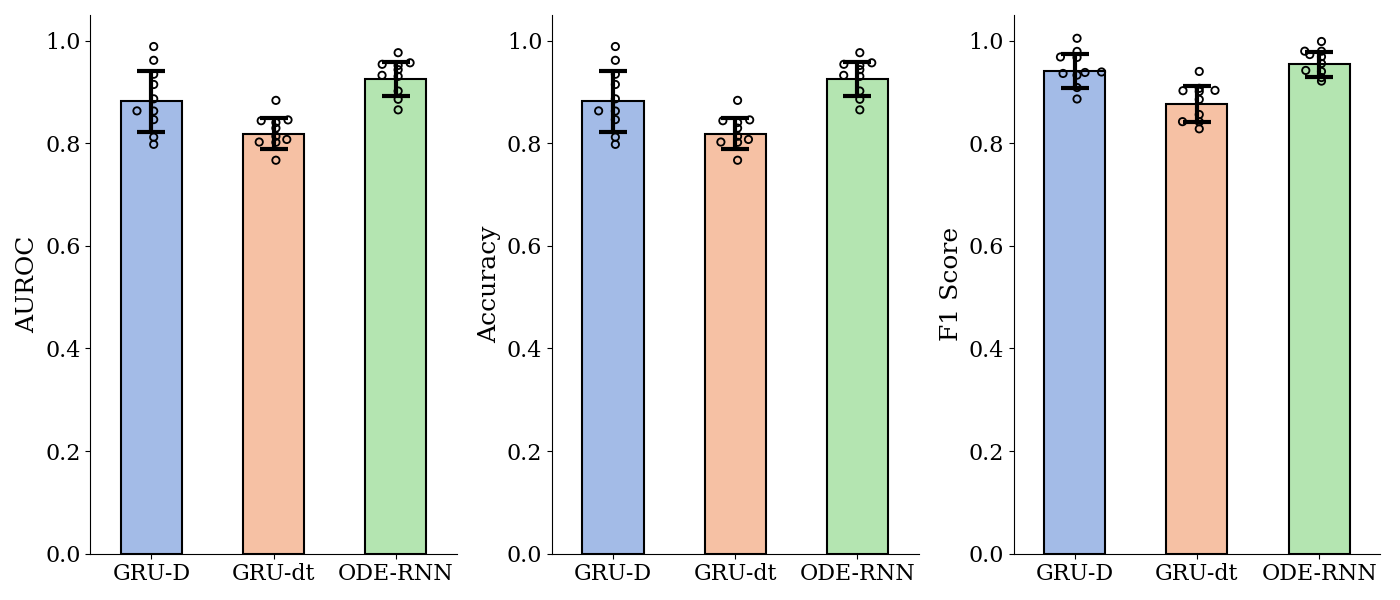
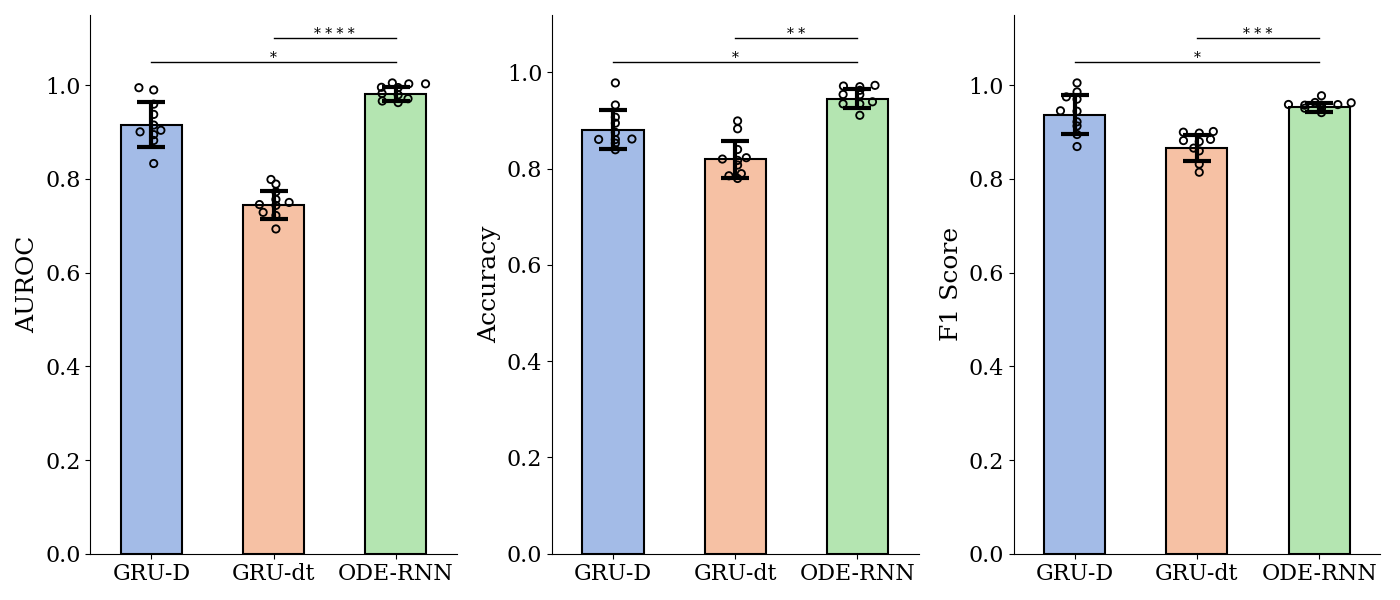
add functionality to plot asterisks for p-values

diff --git a/src/barplot.py b/src/barplot.py
@@ -9,18 +9,36 @@ from matplotlib import pyplot as plt
 def sbplot(ax: plt.Axes,
            method_list: List[str],
            data_dict: Dict[str, np.array],
+           pvals_dict: Dict[str, float] = None,
            show_individual_points: bool = True,
            individal_point_size: float = 10,
-           labelsize: int = 16) -> plt.Axes:
+           labelsize: int = 16,
+           y_buffer_ratio: int = 0.05,
+           ymin: float = None,
+           ymax: float = None) -> plt.Axes:
     '''
     Statistical Bar Plot.
     Blot the bars and display the significance levels.
+
+    Arguments
+    ---------
+    - `method_list`:
+        A list of method strings, each corresponding to a bar in the plot.
+    - `data_dict`:
+        A dict, with each key being a method string and the value being a 1D numpy array.
+    - `pvals_dict`:
+        A dict with the following format:
+        {'$method1 vs $method2': $p-value, ...}
+        The key shall use ' vs ' to connect two method strings,
+        both of which mentioned in `method_list`.
     '''
 
     n_bars = len(method_list)
     colors = sns.color_palette('muted', n_bars)
     data_arr = np.array([data_dict[k] for k in method_list])
 
+    # Plot the individual points.
+    # Seaborn works the best with dataframes, hence the conversion.
     if show_individual_points:
         df = pd.DataFrame(data_arr.T, columns=method_list)
         sns.swarmplot(ax=ax, data=df, size=individal_point_size, color='k', marker="$\circ$")
@@ -28,6 +46,7 @@ def sbplot(ax: plt.Axes,
     ax.spines[['right', 'top']].set_visible(False)
     ax.tick_params(axis='both', which='major', labelsize=labelsize)
 
+    # Plot the bars one by one.
     for i in range(n_bars):
         ax.bar(method_list[i],
                np.mean(data_dict[method_list[i]]),
@@ -39,47 +58,108 @@ def sbplot(ax: plt.Axes,
                capsize=10,
                error_kw={'capthick': 3, 'elinewidth': 3, 'alpha': 1})
 
+    # Compute the range of y for display.
+    ymax_baseline = np.max(data_arr) if ymax is None else ymax
+    ymin_baseline = np.min(data_arr) if ymin is None else ymin
+    height_range = ymax_baseline - ymin_baseline
+    y_buffer = y_buffer_ratio * height_range
+    if ymin is not None:
+        ymin = min(ymin, np.min(data_arr) - y_buffer)
+    else:
+        ymin = np.min(data_arr) - y_buffer
+
+    # Plot the indicators of p-values.
+    ymax_baseline += y_buffer
+
+    if pvals_dict is not None:
+        for method_pair in pvals_dict.keys():
+            method1, method2 = method_pair.split(' vs ')
+
+            # Each method string shall appear in `method_list` once and only once.
+            assert (np.array(method_list) == method1).sum() == 1
+            assert (np.array(method_list) == method2).sum() == 1
+            method1_idx = np.where(np.array(method_list) == method1)[0].item()
+            method2_idx = np.where(np.array(method_list) == method2)[0].item()
+
+            # Plot the horizontal lines, p-values, and asterisks.
+            pval = pvals_dict[method_pair]
+            asterisks = pval_to_asterisk(pval=pval)
+            line_x = [method1_idx, method2_idx]
+            line_y = [ymax_baseline, ymax_baseline]
+            ax.plot(line_x, line_y, 'k', linewidth=1)
+            ax.text(np.mean(line_x), ymax_baseline, asterisks, horizontalalignment='center')
+
+            ymax_baseline += y_buffer
+
+    ax.set_ylim([ymin, ymax_baseline])
+
     return ax
 
+def pval_to_asterisk(pval: float) -> str:
+    '''
+    Assign the proper number of asterisks to the given p-value.
+    '''
+    assert pval >= 0, '`pval_to_asterisk`: p-value has to be >= 0.'
+    if pval < 0.0001:
+        return '* * * *'
+    elif pval < 0.001:
+        return '* * *'
+    elif pval < 0.01:
+        return '* *'
+    elif pval < 0.05:
+        return '*'
+    else:
+        return 'ns'
 
 def test_sbplot():
+    np.random.seed(1)
+
     method_list = ['GRU-D', 'GRU-dt', 'ODE-RNN']
 
-    auroc_dict = {
+    auroc_data_dict = {
         'GRU-D': np.clip(np.random.normal(loc=0.92, scale=0.04, size=(10,)), 0, 1),
         'GRU-dt': np.clip(np.random.normal(loc=0.75, scale=0.03, size=(10,)), 0, 1),
         'ODE-RNN': np.clip(np.random.normal(loc=0.98, scale=0.02, size=(10,)), 0, 1),
     }
+    auroc_pvals_dict = {
+        'GRU-D vs ODE-RNN': 0.01,
+        'GRU-dt vs ODE-RNN': 5e-5,
+    }
 
-    acc_dict = {
+    acc_data_dict = {
         'GRU-D': np.clip(np.random.normal(loc=0.89, scale=0.05, size=(10,)), 0, 1),
         'GRU-dt': np.clip(np.random.normal(loc=0.81, scale=0.04, size=(10,)), 0, 1),
         'ODE-RNN': np.clip(np.random.normal(loc=0.94, scale=0.03, size=(10,)), 0, 1),
     }
+    acc_pvals_dict = {
+        'GRU-D vs ODE-RNN': 0.01,
+        'GRU-dt vs ODE-RNN': 0.001,
+    }
 
-    f1_dict = {
+    f1_data_dict = {
         'GRU-D': np.clip(np.random.normal(loc=0.92, scale=0.04, size=(10,)), 0, 1),
         'GRU-dt': np.clip(np.random.normal(loc=0.87, scale=0.03, size=(10,)), 0, 1),
         'ODE-RNN': np.clip(np.random.normal(loc=0.95, scale=0.02, size=(10,)), 0, 1),
+    }
+    f1_pvals_dict = {
+        'GRU-D vs ODE-RNN': 0.01,
+        'GRU-dt vs ODE-RNN': 3e-4,
     }
 
     plt.rcParams['font.family'] = 'serif'
     plt.rcParams['legend.fontsize'] = 12
     fig = plt.figure(figsize=(14, 6))
     ax = fig.add_subplot(1, 3, 1)
-    ax = sbplot(ax, method_list, acc_dict)
+    ax = sbplot(ax=ax, method_list=method_list, data_dict=auroc_data_dict, pvals_dict=auroc_pvals_dict, ymin=0)
     ax.set_ylabel('AUROC', fontsize=18)
-    ax.set_ylim([0, 1.05])
 
     ax = fig.add_subplot(1, 3, 2)
-    ax = sbplot(ax, method_list, acc_dict)
+    ax = sbplot(ax=ax, method_list=method_list, data_dict=acc_data_dict, pvals_dict=acc_pvals_dict, ymin=0)
     ax.set_ylabel('Accuracy', fontsize=18)
-    ax.set_ylim([0, 1.05])
 
     ax = fig.add_subplot(1, 3, 3)
-    ax = sbplot(ax, method_list, f1_dict)
+    ax = sbplot(ax=ax, method_list=method_list, data_dict=f1_data_dict, pvals_dict=f1_pvals_dict, ymin=0)
     ax.set_ylabel('F1 Score', fontsize=18)
-    ax.set_ylim([0, 1.05])
 
     fig.tight_layout()
     fig.savefig('../assets/sbplot_example.png')
